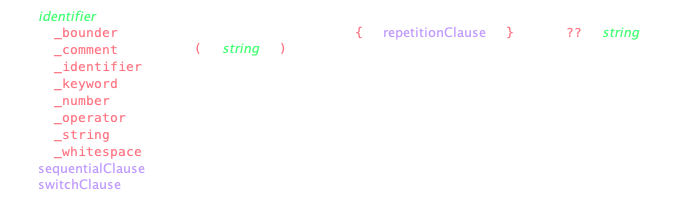
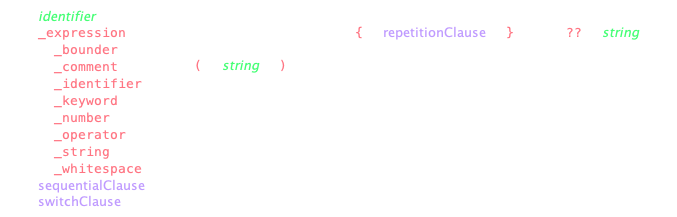
- Expression clauses - Use cases doc page - Some doc cleanup

diff --git a/Clauses/RepeatingClauseParser.cs b/Clauses/RepeatingClauseParser.cs
@@ -1,3 +1,4 @@
+using Lex.Expressions;
 using Lex.Parser;
 using Lex.Tokens;
 
@@ -34,6 +35,9 @@ public class RepeatingClauseParser : ClauseParser, IClauseParserParent
         _min = min;
         _max = max;
         _errorMessage = errorMessage;
+
+        if (_wrapped is ExpressionClauseParser expressionClauseParser && min == 0)
+            expressionClauseParser.SetIsOptional(true);
     }
 
     /// <summary>
@@ -45,6 +49,7 @@ public class RepeatingClauseParser : ClauseParser, IClauseParserParent
     protected override Clause TryParseClause(LexicalParser parser)
     {
         List<Token> tokens = [];
+        List<IExpressionTerm> expressions = [];
         string lastMatchedTag = null;
         int count = 0;
 
@@ -55,18 +60,39 @@ public class RepeatingClauseParser : ClauseParser, IClauseParserParent
             if (wrappedResult != null)
             {
                 tokens.AddRange(wrappedResult.Tokens);
+                expressions.AddRange(wrappedResult.Expressions);
 
                 count++;
 
                 if (count >= _max)
-                    return new Clause { Tag = wrappedResult.Tag, Tokens = tokens };
+                {
+                    return new Clause
+                    {
+                        Tag = wrappedResult.Tag,
+                        Tokens = tokens,
+                        Expressions = expressions
+                    };
+                }
 
                 lastMatchedTag = wrappedResult.Tag ?? lastMatchedTag;
             }
             else
             {
                 if (count >= _min)
-                    return new Clause { Tag = lastMatchedTag, Tokens = tokens };
+                {
+                    return new Clause
+                    {
+                        Tag = lastMatchedTag,
+                        Tokens = tokens,
+                        Expressions = expressions
+                    };
+                }
+
+                if (expressions.Count > 0)
+                {
+                    throw new TokenException(_errorMessage ?? "Syntax error near here.")
+                        { Token = parser.GetNextToken() };
+                }
 
                 parser.ReturnTokens(tokens);
 

diff --git a/Dsl/LexicalDslFactory.cs b/Dsl/LexicalDslFactory.cs
@@ -218,8 +218,8 @@ public static partial class LexicalDslFactory
     }
 
     /// <summary>
-    /// This is a helper method for creating a variable pool to use while parsing the DSL
-    /// DSL.
+    /// This is a helper method for creating a variable pool to use while parsing a DSL
+    /// specification.
     /// </summary>
     /// <returns>The initialized variable pool.</returns>
     private static Dictionary<string, object> CreateVariablePool()
@@ -238,7 +238,7 @@ public static partial class LexicalDslFactory
     }
 
     /// <summary>
-    /// This method creates a lexical parser for parsing our DSL DSL.
+    /// This method creates a lexical parser for parsing a DSL specification.
     /// </summary>
     /// <returns>An appropriate parser.</returns>
     private static LexicalParser CreateAndConfigureParser(string source)
@@ -652,12 +652,26 @@ public static partial class LexicalDslFactory
             return (null, null, null, CreateSequentialClause(variables, tokens, dsl));
 
         Token token = tokens.RemoveFirst();
+        Type type = null;
         ClauseParser parser = null;
         string text = token.Text;
         string errorMessage = null;
 
+        // Handle expression references.
+        if (text == "_expression")
+        {
+            if (dsl.ExpressionParser == null)
+            {
+                throw new TokenException("The DSL does not contain the specification for an expression.")
+                {
+                    Token = token
+                };
+            }
+
+            parser = new ExpressionClauseParser(dsl.ExpressionParser);
+        }
         // Handle built-in type usage.
-        if (text[0] == '_' && TokenTypesMap.TryGetValue(text, out var type))
+        else if (text[0] == '_' && TokenTypesMap.TryGetValue(text, out type))
             (token, type) = ResolveTypeReference(tokens, text, type);
         else
             (token, type, parser) = ResolveVariableReference(variables, token, text);

diff --git a/Clauses/ExpressionClauseParser.cs b/Clauses/ExpressionClauseParser.cs
@@ -1,0 +1,51 @@
+using Lex.Expressions;
+using Lex.Parser;
+
+namespace Lex.Clauses;
+
+/// <summary>
+/// This class represents a "clause" where some number of expressions are expected to
+/// occur. 
+/// </summary>
+public class ExpressionClauseParser : ClauseParser
+{
+    private readonly ExpressionParser _expressionParser;
+
+    private bool _optional;
+
+    public ExpressionClauseParser(ExpressionParser expressionParser)
+    {
+        ArgumentNullException.ThrowIfNull(expressionParser, nameof(expressionParser));
+
+        _expressionParser = expressionParser;
+        _optional = false;
+    }
+
+    /// <summary>
+    /// This method is used to set the optional state of the expression.  By default, an
+    /// expression is not optional.
+    /// </summary>
+    /// <param name="newState">The new state for whether an expression is optional.</param>
+    /// <returns>This object, for fluency.</returns>
+    public ExpressionClauseParser SetIsOptional(bool newState)
+    {
+        _optional = newState;
+
+        return this;
+    }
+
+    /// <summary>
+    /// This method tries to parse,
+    /// </summary>
+    /// <param name="parser">The parser to use.</param>
+    /// <returns>The list of tokens matching the clause, or <c>null</c>, if not.</returns>
+    protected override Clause TryParseClause(LexicalParser parser)
+    {
+        IExpressionTerm expression = _expressionParser.ParseExpressionTerm(parser, _optional);
+
+        return new Clause
+        {
+            Expressions = [expression]
+        };
+    }
+}

diff --git a/Clauses/SequentialClauseParser.cs b/Clauses/SequentialClauseParser.cs
@@ -1,3 +1,4 @@
+using Lex.Expressions;
 using Lex.Parser;
 using Lex.Tokens;
 
@@ -173,16 +174,26 @@ public class SequentialClauseParser : ClauseParser, IClauseParserParent
     /// <returns>The list of tokens matching the clause, or <c>null</c>, if not.</returns>
     protected override Clause TryParseClause(LexicalParser parser)
     {
-        List<Token> result = [];
+        List<Token> tokens = [];
+        List<IExpressionTerm> expressions = [];
 
         foreach (Clause parsed in Children
                      .Select(clause => clause.TryParse(parser)))
         {
             if (parsed != null)
-                result.AddRange(parsed.Tokens);
+            {
+                tokens.AddRange(parsed.Tokens);
+                expressions.AddRange(parsed.Expressions);
+            }
             else
             {
-                parser.ReturnTokens(result);
+                if (expressions.Count > 0)
+                {
+                    throw new TokenException("Syntax error near here.")
+                        { Token = parser.GetNextToken() };
+                }
+
+                parser.ReturnTokens(tokens);
 
                 return null;
             }
@@ -191,7 +202,8 @@ public class SequentialClauseParser : ClauseParser, IClauseParserParent
         return new Clause
         {
             Tag = _onMatchTag,
-            Tokens = result
+            Tokens = tokens,
+            Expressions = expressions
         };
     }
 }

diff --git a/Clauses/Clause.cs b/Clauses/Clause.cs
@@ -1,3 +1,4 @@
+using Lex.Expressions;
 using Lex.Tokens;
 
 namespace Lex.Clauses;
@@ -16,6 +17,13 @@ public class Clause
 
     /// <summary>
     /// This property provides the list of tokens that matched the clause that was parsed.
+    /// If this is present, then <see cref="Expressions"/> will not be.
     /// </summary>
     public List<Token> Tokens { get; init; }
+
+    /// <summary>
+    /// This property provide the list of expressions the clause parser captured.  If this
+    /// is present, then <see cref="Tokens"/> will not be.
+    /// </summary>
+    public List<IExpressionTerm> Expressions { get; init; }
 }

diff --git a/Clauses/SingleTokenClauseParser.cs b/Clauses/SingleTokenClauseParser.cs
@@ -41,7 +41,7 @@ public class SingleTokenClauseParser : ClauseParser
         return haveToken switch
         {
             false when _errorMessage != null => throw new TokenException(_errorMessage) {Token = parser.GetNextToken()},
-            true => new Clause { Tokens = [token] },
+            true => new Clause { Tokens = [token], Expressions = [] },
             _ => null
         };
     }

diff --git a/Clauses/SwitchClauseParser.cs b/Clauses/SwitchClauseParser.cs
@@ -199,7 +199,8 @@ public class SwitchClauseParser : ClauseParser, IClauseParserParent
             return new Clause
             {
                 Tag = onMatchTag,
-                Tokens = parsed.Tokens
+                Tokens = parsed.Tokens,
+                Expressions = parsed.Expressions
             };
         }
 

diff --git a/docs/use-cases.md b/docs/use-cases.md
@@ -1,0 +1,58 @@
+## Use Cases
+
+This section covers some real-world examples of how the Lex library has been used.
+
+### Parsing JSON
+
+This is more of an academic exercise since most runtimes have a highly efficient JSON
+parser available already, but it does serve as an example of some of what Lex can do.
+
+Because it is so simple, you'd want to parse JSON at a token level only; using clauses
+would needlessly complicate things.
+
+Here's how you could declare JSON as a DSL specification:
+
+```csharp
+Dsl dsl = LexicalDslFactory.CreateFrom(""""
+    _keywords: 'true', 'false', 'null'
+    _operators: comma
+    _parserSpec: """
+        dsl keywords
+        double quoted strings
+        numbers with signs
+        dsl operators
+        bounders
+        whitespace
+        """
+    """");
+LexicalParser parser = dsl.CreateLexicalParser();
+```
+
+From there, you can use the parser to pull apart any JSON document.  Note that, at this
+level, you'd have to manage object/array nesting yourself.
+
+### Data Transfer Tool
+
+There once was a need for a single tool that could read from a source, map and potentially
+modify the data and then, write to a target.  This was back when it was still fairly
+expensive to use intermediate formats such as XML and translation tools based, say, on XSD.
+
+The tool needed to be able to infer data structures from a variety of sources, be they a
+C header file, an SQL `CREATE TABLE` or `CREATE VIEW` DDL, Java classes, etc.
+
+Lex allowed the tool to read data structure definitions from any of these source languagses
+while also providing a DSL to declare the source-to-target mapping logic.
+
+### C# to TypeScript Transpiler
+
+Lex made it easy for this tool to "understand" the subset of the C# class declaration
+syntax, including attribute interpretation, so that a TypeScript equivalent of the class
+could be generated.  This allowed the development project to single-source its DTOs.
+
+### Ray Tracer
+
+A ray tracer has an obvious need for a DSL for specifying the structure of a scene to
+render.  This includes declaring higher-level data constructs, such as vector and matrix
+notation, than general languages support.  It also took advantage of being able to declare
+that the superscript 2, (`²`), could be recognized as a postfix unary square operator.
+Other Unicode math symbols were used as expression operators in a similar way.

diff --git a/docs/dsl-specification-dsl.md b/docs/dsl-specification-dsl.md
@@ -382,10 +382,12 @@ bracket,
 ### The Term Clause
 
 The term clause represents a sub-clause of a sequential or switch clause.  It may be one
-of four things:
+of five things:
 
 - An identifier.  In this case, the term represents a previously defined keyword, operator
   or other type of token.
+- An expression.  In this case, the parser will use the expression parser defined in the
+  DSL to parse an expression tree.
 - A token type.  In this case, the term represents matching on a type of token.  If the
   optional parenthetical clause is given, then a new token of the indicated type is created
   to match on.
@@ -397,6 +399,12 @@ of four things:
   <source media="(prefers-color-scheme: light)" srcset="images/dsl-dsl/term.png">
   <img alt="Defining a sequential clause" src="images/dsl-dsl/term.png">
 </picture>
+
+When the term is an expression, it is important to know that, at that point, any terms
+that follow it must parse successfully since parsing an expression consumes all the
+relevant tokens, preventing the containing clause from being rolled back as happens, say,
+when a sequence isn't fully captured.  As such, you'll want to include an error message
+on all terms in the clause that follow the expression.
 
 This may optionally be followed by a [repetition clause](#the-repetition-clause).  Finally,
 a coalesce operator and string may be provided.

diff --git a/docs/README.md b/docs/README.md
@@ -24,6 +24,11 @@ This documentation tells you everything you need to know to use Lex effectively.
   - [Types of Tokens](the-basics.md#types-of-tokens)
   - [Clauses](the-basics.md#clauses)
   - [Expressions](the-basics.md#expressions)
+- [Use Cases](use-cases.md)
+  - [Parsing JSON](use-cases.md#parsing-json)
+  - [Data Transfer Tool](use-cases.md#data-transfer-tool)
+  - [C# to TypeScript Transpiler](use-cases.md#c-to-typescript-transpiler)
+  - [Ray Tracer](use-cases.md#ray-tracer)
 - [The Lexical Parser](the-parser.md)
   - [Parser Creation and Configuration](the-parser.md#parser-creation-and-configuration)
   - [Using the Lexical Parser](the-parser.md#using-the-lexical-parser)
@@ -84,7 +89,7 @@ This documentation tells you everything you need to know to use Lex effectively.
   - [The Sequential Clause](dsl-specification-dsl.md#the-sequential-clause)
   - [Defining a Switch Clause](dsl-specification-dsl.md#defining-a-switch-clause)
   - [The Switch Clause](dsl-specification-dsl.md#the-switch-clause)
-  - [The Term Clause](dsl-specification-dsl.md#the-top-level)
+  - [The Term Clause](dsl-specification-dsl.md#the-term-clause)
   - [The Repetition Clause](dsl-specification-dsl.md#the-repetition-clause)
 - [Extending Lex](extending-lex.md)
   - [Tokenizers and Tokens](extending-lex.md#tokenizers-and-tokens)

diff --git a/README.md b/README.md
@@ -77,6 +77,9 @@ Use Lex to parse almost any computing language that is coded in text:
   command and control tools that provide a command line interface to a remote business
   server).
 
+See the [Use Cases](docs/use-cases.md) section of the documentation for some concrete
+examples.
+
 ### Extensible
 
 Lex deals with _typed_ tokens.  Each type of token has its own, dedicated parser or

diff --git a/docs/release-notes.md b/docs/release-notes.md
@@ -1,5 +1,12 @@
 ## Release Notes
 
+### 1.1.0
+
+- Added support for an expression clause, allowing expressions to be expected in the
+  midst of other clauses.
+
+- Addition of the [Use Cases](use-cases.md) page to the documentation.
+
 ### 1.0.0
 
 The initial version of the library, at least from the point of view of C#; see
